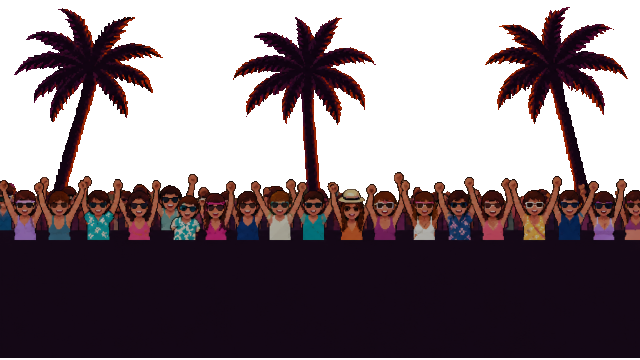
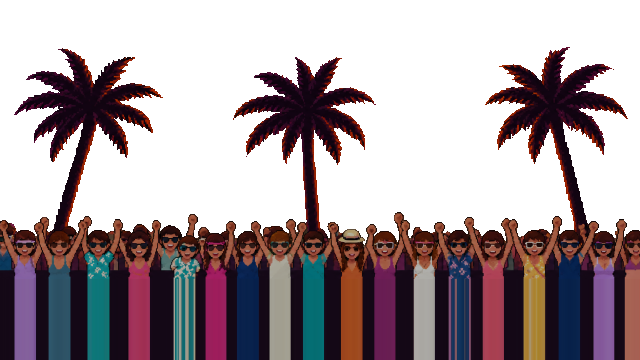
One burger per block after dying; Ibiza crowd reaches the ground
- GameScene: scene events outlive a restart, so every death added another block-item listener
  and a note block then let out two (or more) burgers, eggs or ducks. Remove the old one first.
- hf_world.py: drop=<layer>:<px>:<cut> moves a layer down and extends its bottom row.
- Ibiza near layer rebuilt with drop=near:40:240: the crowd now reaches behind the ground tiles
  instead of stopping above a dark band.

Claude-Session: https://claude.ai/code/session_01TasNW2k2gt24iKvy6bENBs

diff --git a/src/levels/worlds/ibiza.js b/src/levels/worlds/ibiza.js
@@ -1,7 +1,7 @@
 // WORLD: IBIZA, miss-monique's world: Ibiza at sunset, for Miss Monique's famous Ibiza set (no world pictures in Drive, so taken from her set screenshots and the existing IBIZA club look).
 // Looks only. Gameplay files (src/levels/gameplay/) name this world but never change it.
 // Art: made in Higgsfield (pictures in project files art/worlds/ibiza/), shrunk into
-// src/art/world/ibiza/ with `python3 tools/hf_world.py <dir> ibiza far=0.55,0.415,0.15 mid=0.7,0.5,0.73 dim=near:0.7`;
+// src/art/world/ibiza/ with `python3 tools/hf_world.py <dir> ibiza far=0.55,0.415,0.15 mid=0.7,0.5,0.73 dim=near:0.7 drop=near:40:240`;
 // the 'layers' builder in src/art/background.js puts them together.
 export default {
   id: 'ibiza',

diff --git a/src/scenes/GameScene.js b/src/scenes/GameScene.js
@@ -197,7 +197,9 @@ export default class GameScene extends Phaser.Scene {
     });
 
     // What comes out of a music-note block: a rubber duck (collected right away), the duck egg or
-    // the burger box.
+    // the burger box. Scene events outlive a restart (after dying), so the old listener goes first:
+    // otherwise each death added one more and a block let out two burgers, two eggs or two ducks.
+    this.events.off('block-item');
     this.events.on('block-item', (item, x, y) => {
       if (item === 'egg') return this.rideDucks.popEgg(x, y);
       if (item === 'burger') return this.burgers.popBox(x, y, player.facing);

diff --git a/tools/hf_world.py b/tools/hf_world.py
@@ -10,13 +10,17 @@ out against it. repeat=<layer>:<n> places a
 placed part n times evenly across the width (x is then ignored). seam=<layer>:mirror keeps the left half of a layer and adds it mirrored, for a band that
 runs the whole width but doesn't tile by itself. seam=<layer>:edge keeps the middle as drawn and only
 replaces the right 30% with the left 30% mirrored, softly joined (for a band with one feature in the middle). The layers tile sideways, so nothing should touch the left or right edge unless it
-runs the whole width (a crowd). Everything below about y=265 is behind the ground tiles."""
+runs the whole width (a crowd). Everything below about y=265 is behind the ground tiles, but only
+while the camera is at its lowest: up on a high platform the ground sits lower, at about y=288.
+drop=<layer>:<px>:<cut> moves a layer down px pixels and, from row cut (as drawn, before the move)
+down, repeats the row just above it: for a crowd that stops above the ground with a dark floor
+under it, so it reaches down behind the ground tiles with no gap."""
 import sys, os
 from PIL import Image
 
 W, H = 640, 360
 SRC, ART = sys.argv[1], sys.argv[2]
-place, dim, seam, rep = {}, {}, {}, {}
+place, dim, seam, rep, drop = {}, {}, {}, {}, {}
 for arg in sys.argv[3:]:
     name, vals = arg.split('=')
     if name == 'dim':
@@ -25,6 +29,9 @@ for arg in sys.argv[3:]:
     elif name == 'repeat':
         layer_name, n = vals.split(':')
         rep[layer_name] = int(n)
+    elif name == 'drop':
+        layer_name, px, cut = vals.split(':')
+        drop[layer_name] = (int(px), int(cut))
     elif name == 'seam':
         layer_name, kind = (vals.split(':') + ['mirror'])[:2]
         seam[layer_name] = kind
@@ -77,6 +84,14 @@ for i, name in enumerate(['sky', 'far', 'mid', 'near']):
                 layer.alpha_composite(part, (round(x - part.width / 2), round(bottom * H - part.height)))
         else:
             layer.alpha_composite(im.crop((0, 0, W, min(H, im.height))), (0, 0))
+    if name in drop:
+        px, cut = drop[name]
+        edge = layer.crop((0, cut - 1, W, cut))
+        for y in range(cut, H):
+            layer.paste(edge, (0, y))
+        moved = Image.new('RGBA', (W, H), (0, 0, 0, 0))
+        moved.paste(layer.crop((0, 0, W, H - px)), (0, px))
+        layer = moved
     if name in dim:
         r, g, b, a = layer.split()
         r, g, b = (c.point(lambda v: round(v * dim[name])) for c in (r, g, b))
